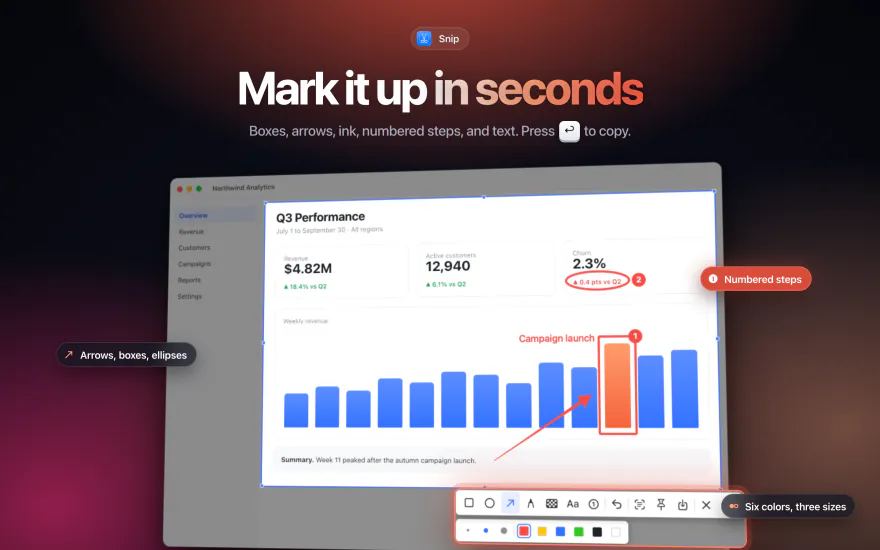
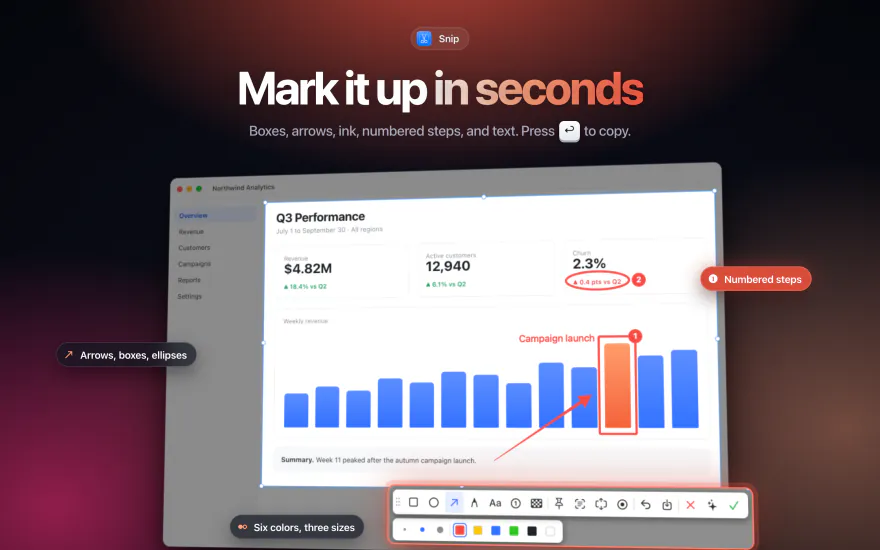
App Store screenshots v3: Copy for Agents lead shot, re-rendered toolbar

Changed region(s): [[0.2455, 0.8345, 0.9818, 1.0], [0.675, 0.34, 0.7057, 0.3709], [0.3375, 0.34, 0.3682, 0.3709]]

diff --git a/Marketing/html/0-agents.html b/Marketing/html/0-agents.html
@@ -1,0 +1,61 @@
+<!doctype html><html><head><meta charset="utf-8"><link rel="stylesheet" href="shared.css">
+<style>
+  .shot { --a: #4c84ff; --a2: #9cc0ff; --a3: #7a4dff; }
+  #base { left: 80px; top: 326px; }
+  /* Same look as the app's TipView (dark rounded label under the button), at the lifted scale. */
+  .tip { position: absolute; z-index: 21; height: 30px; padding: 0 11px; border-radius: 8px; display: flex; align-items: center;
+    background: rgba(31,31,31,.94); color: #fff; font-size: 15.5px; font-weight: 550; letter-spacing: -.005em; white-space: nowrap;
+    box-shadow: 0 0 0 1px rgba(255,255,255,.14), 0 10px 26px rgba(0,0,0,.45); }
+  .tokens { position: absolute; left: 846px; top: 326px; width: 514px; padding: 30px 32px 28px; border-radius: 22px; z-index: 10;
+    background: rgba(18,20,32,.74); backdrop-filter: blur(22px);
+    box-shadow: 0 0 0 1px rgba(255,255,255,.14) inset, 0 40px 90px -10px rgba(0,0,0,.7); }
+  .tokens .k { font-size: 15px; font-weight: 600; letter-spacing: .06em; text-transform: uppercase; color: rgba(232,236,255,.55); }
+  .row { margin-top: 26px; }
+  .row .name { display: flex; justify-content: space-between; align-items: baseline; font-size: 19px; font-weight: 600; color: rgba(255,255,255,.78); }
+  .row .name b { font-size: 26px; font-weight: 750; letter-spacing: -.02em; color: #fff; font-variant-numeric: tabular-nums; }
+  .row .name small { font-size: 15px; font-weight: 500; color: rgba(232,236,255,.5); margin-left: 6px; }
+  .bar { margin-top: 10px; height: 26px; border-radius: 7px; background: #5d6378; }
+  .row.me .name { color: #fff; }
+  .row.me .bar { width: 39.2%; background: linear-gradient(90deg, #3f73ff, #6f9cff); box-shadow: 0 0 30px rgba(76,132,255,.55); }
+  .save { margin-top: 26px; display: flex; align-items: center; gap: 14px; font-size: 19px; font-weight: 600; color: rgba(255,255,255,.85); }
+  .save .pct { font-size: 46px; font-weight: 800; letter-spacing: -.04em;
+    background: linear-gradient(100deg, #fff 0%, var(--a2) 45%, var(--a) 100%); -webkit-background-clip: text; background-clip: text; color: transparent; }
+  .foot { margin-top: 18px; font-size: 13.5px; line-height: 1.4; color: rgba(232,236,255,.45); }
+</style></head><body>
+<div class="shot">
+  <div class="bg"></div><div class="grid"></div>
+  <header>
+    <div class="brand"><img src="../../Icons/renders/2-scissors.png" alt="">Snip</div>
+    <h1>Copy for <span class="hl">your agent</span></h1>
+    <p class="sub">One click sends a smaller image with the same detail. Press <span class="kc">⇧</span><span class="kc">↩</span> or click <b>✦</b></p>
+  </header>
+
+  <div class="crop card" id="base" data-src="raw/dash-annotate.png" data-rect="110,70,1080,720" data-scale="0.64" style="position:absolute"></div>
+  <!-- The real right end of the toolbar (undo, save, cancel, Copy for Agents, copy), lifted. -->
+  <div class="crop lift" id="bar" data-src="raw/dash-annotate.png" data-rect="1000,677,176,44" data-follow="#base" data-lift="2.1" style="border-radius:10px"></div>
+  <div class="tip" id="tip">Copy for Agents: smaller image, same detail (⇧Enter)</div>
+
+  <div class="tokens">
+    <div class="k">Tokens per full-screen screenshot</div>
+    <div class="row">
+      <div class="name"><span>Retina copy<small>2940×1912</small></span><b>4,784</b></div>
+      <div class="bar"></div>
+    </div>
+    <div class="row me">
+      <div class="name"><span>Copy for Agents<small>1470×956</small></span><b>1,874</b></div>
+      <div class="bar"></div>
+    </div>
+    <div class="save"><span class="pct">−61%</span><span>fewer tokens<br><small style="font-size:16px;font-weight:500;color:rgba(232,236,255,.6)">Up to 75% fewer on a region</small></span></div>
+    <div class="foot">15-inch MacBook Air. Tokens estimated as width × height ÷ 750.</div>
+  </div>
+  <div class="grain"></div>
+</div>
+<script src="shared.js"></script>
+<script>
+  // Hang the tooltip under the lifted ✦ button (scene x 1122.5), like the app does.
+  const bar = document.getElementById('bar'), tip = document.getElementById('tip');
+  const s = bar.offsetWidth / 176, bx = bar.offsetLeft + (1122.5 - 1000) * s;
+  tip.style.top = bar.offsetTop + bar.offsetHeight + 14 + 'px';
+  tip.style.left = bx - tip.offsetWidth / 2 + 'px';
+</script>
+</body></html>

diff --git a/Marketing/html/2-markup.html b/Marketing/html/2-markup.html
@@ -16,7 +16,7 @@
   <div class="stage"><div class="tilt">
     <div class="crop card" id="base" data-src="raw/dash-annotate.png" data-rect="110,70,1080,720" data-scale="0.86" style="position:absolute"></div>
     <!-- The real toolbar and color bar, lifted toward the viewer. -->
-    <div class="crop lift" data-src="raw/dash-annotate.png" data-rect="740,678,440,82" data-follow="#base" data-lift="1.18" style="border-radius:10px"></div>
+    <div class="crop lift" data-src="raw/dash-annotate.png" data-rect="626,674,556,88" data-follow="#base" data-lift="1.18" style="border-radius:10px"></div>
   </div></div>
 
   <div class="tag" style="left:1146px; top:436px">
@@ -27,7 +27,7 @@
     <svg viewBox="0 0 20 20" fill="none" stroke="currentColor" stroke-width="1.8" stroke-linecap="round" stroke-linejoin="round"><path d="M4 16 15 5M9 5h6v6"/></svg>
     Arrows, boxes, ellipses
   </div>
-  <div class="tag glass" style="left:1180px; top:808px">
+  <div class="tag glass" style="left:376px; top:842px">
     <svg viewBox="0 0 20 20" fill="none" stroke="currentColor" stroke-width="1.8"><circle cx="6" cy="10" r="3" fill="currentColor"/><circle cx="14" cy="10" r="3"/></svg>
     Six colors, three sizes
   </div>

diff --git a/Marketing/html/contact-sheet.html b/Marketing/html/contact-sheet.html
@@ -8,10 +8,10 @@ figure{display:flex;flex-direction:column;gap:8px}
 img{width:100%;border-radius:8px;box-shadow:0 0 0 1px rgba(255,255,255,.12),0 10px 30px rgba(0,0,0,.5)}
 figcaption{font-size:13px;color:rgba(255,255,255,.55)}
 </style></head><body>
-<h2>Snip: Mac App Store screenshots v2 (2880×1800)</h2>
+<h2>Snip: Mac App Store screenshots v3 (2880×1800)</h2>
 <div class="row" id="row"></div>
 <script>
-const shots=[['1-snap','1 Snap'],['2-markup','2 Mark up'],['3-private','3 Private'],['4-pin','4 Pin'],['5-on-device','5 On your Mac']];
+const shots=[['0-agents','1 For agents'],['1-snap','2 Snap'],['2-markup','3 Mark up'],['3-private','4 Private'],['4-pin','5 Pin'],['5-on-device','6 On your Mac']];
 const row=document.getElementById('row');row.style.setProperty('--n',shots.length);
 for(const [f,c] of shots){row.insertAdjacentHTML('beforeend',`<figure><img src="../appstore-v2/${f}.png"><figcaption>${c}</figcaption></figure>`)}
 </script></body></html>
